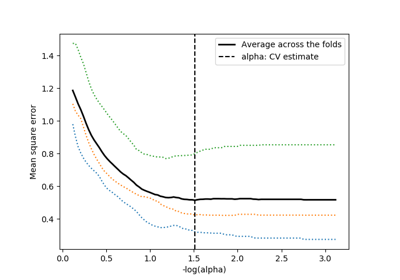
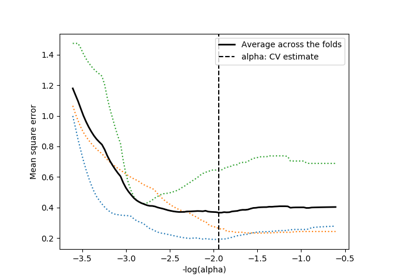
Generate Pelican site

diff --git a/searchindex.js b/searchindex.js
@@ -1,1 +1,1 @@
-Search.setIndex({docnames:["api","auto_examples/index","auto_examples/plot_finance_path","auto_examples/plot_lasso_cv","auto_examples/plot_leukemia_path","generated/celer.Lasso","generated/celer.LassoCV","generated/celer.celer","generated/celer.celer_path","index"],envversion:53,filenames:["api.rst","auto_examples/index.rst","auto_examples/plot_finance_path.rst","auto_examples/plot_lasso_cv.rst","auto_examples/plot_leukemia_path.rst","generated/celer.Lasso.rst","generated/celer.LassoCV.rst","generated/celer.celer.rst","generated/celer.celer_path.rst","index.rst"],objects:{"celer.Lasso":{__init__:[5,1,1,""]},"celer.LassoCV":{__init__:[6,1,1,""]},celer:{Lasso:[5,0,1,""],LassoCV:[6,0,1,""],celer:[7,2,1,""],celer_path:[8,2,1,""]}},objnames:{"0":["py","class","Python class"],"1":["py","method","Python method"],"2":["py","function","Python function"]},objtypes:{"0":"py:class","1":"py:method","2":"py:function"},terms:{"2_2":[5,6],"35th":9,"boolean":6,"break":8,"class":[5,6],"default":[5,6,7,8],"float":[3,4,5,6,7,8],"function":[0,5,6,7],"import":[2,3,4,5,9],"int":[5,6,7,8],"long":2,"return":[7,8],"true":[2,4,5,6,7,8],For:[5,6],The:[2,3,4,5,6,7,8],Then:9,Used:8,__doc__:[2,3,4],__init__:[5,6],_preprocess_data:8,abs:[2,4,9],acceler:7,across:3,activ:9,advis:5,alexandr:9,algorithm:[2,3,4,7,9],all:1,along:[6,8],alpha:[2,3,4,5,6,7,8],alpha_:[3,6],alpha_max:[2,4,6,8],alpha_min:[6,8],alphas_:[3,6],alreadi:6,amount:[5,6,8],anaconda:9,ani:9,arrai:[5,6,7,8],arxiv:9,asfortranarrai:[3,4],astyp:[3,4],attribut:[5,6],author:9,auto:6,auto_examples_jupyt:1,auto_examples_python:1,automat:[6,8],avail:9,averag:3,avoid:[7,8],axi:3,axvlin:3,base:[5,6,8],befor:[5,6],below:7,best:6,between:[5,7,8],booktitl:9,bool:[5,6,7,8],calcul:6,call:[5,7],can:9,celer:[2,3,4],celer_path:[2,4,5,6],center:[6,8],check:9,chosen:6,clf:5,click:[2,3,4],clone:9,coars:[2,4],code:[1,2,3,4,9],coef:[2,4,8],coef_:[5,6],coef_init:8,coeffici:[5,6,7,8],color:3,column:[7,8],com:9,compar:[2,4],compat:6,compil:9,comput:[1,5,6,7,8],conda:9,confer:9,constant:5,constraint:9,construct:2,contigu:[7,8],control:9,coordin:[5,6,7,8],cost:[5,6],creat:9,cross:[1,6],csc:[7,8],cython:9,data:[2,3,4,6,7,8],dataset:1,decis:[5,6],definit:[5,6,7,8],defualt:8,dens:4,dep:9,descent:[5,6,7,8],determin:6,directli:[7,8],displai:3,distribut:9,divid:[5,6],document:9,don:9,dot:[2,4],download:[1,2,3,4],download_preprocess_fin:2,dual:[5,6,7,8,9],dual_gap:[4,8],dual_gap_:6,dualiti:[5,6,7,8],duplic:[7,8],each:[5,6,7,8],elaps:7,elimin:9,els:[2,4],enabl:9,end:6,enter:7,enumer:[2,4],env:9,environ:9,epoch:[5,6,7,8],eps:[6,8],equival:5,eras:5,error:[3,6,9],estim:[0,3,5,6,7],everi:[6,7],everyth:9,exampl:[2,3,4,5],examples_util:2,exist:2,exit:7,expect:6,extrapol:[5,9],fals:[2,5,6,7,8],fast:[5,9],featur:[6,9],fetch_mldata:[3,4],fig:[2,4],figsiz:[2,4],figur:3,file:9,financ:1,finance_data_preprocess:2,finance_target_preprocess:2,fine:[2,4,9],first:[5,6,7,8,9],fit:[3,5,6],fit_intercept:[5,6],fold:[3,6],forc:[5,6,7,8],format:[7,8],formula:[5,6],fortran:[7,8],from:[2,3,4,5,9],full:[2,3,4],galleri:[2,3,4],gap:[2,4,5,6,7,8],gap_freq:[2,4,5,6,7,8],gener:[1,2,3,4,6],git:9,github:9,give:9,goe:7,gramfort:[5,9],grid:[2,4,6],grow:[5,6,7,8],here:[2,3,4],html:[5,9],http:[5,9],icml:[5,9],identif:9,ignor:[5,6],implement:[2,4],independ:6,initi:[5,7,8],initil:[],inner:[6,7,8],inproceed:9,input:6,integ:[5,6,8],intercept:[5,6],intercept_:[5,6],intern:9,ipynb:[2,3,4],iter:[5,6,7,8],joseph:9,jupyt:[1,2,3,4],just:[5,9],kept:6,kfold:6,label:[2,3,4],larg:2,lasso:[1,6,7,8,9],lasso_path:4,lassocv:[1,5],learn:[2,3,4,5,6,9],least:5,legend:3,len:[2,3,4],length:[6,8],leukemia:1,level:7,librari:9,like:[3,7,8],linear_model:[4,8],linestyl:3,linewidth:3,link:9,list:[6,8,9],load:[2,3,4],load_npz:2,log10:3,log1p:1,log:3,logspac:[2,4],loop:[6,7],m_log_alpha:3,machin:9,mai:2,make:2,massia:[5,9],massias18a:[5,9],mathurin:9,mathurinm:9,matplotlib:[2,3,4],matrix:[5,7,8],max:[2,4],max_epoch:[5,6,7,8],max_it:[2,4,5,6,7,8],maximum:[5,6,7,8],mean:[3,4,5,6,8],memori:[7,8],messag:9,method:[5,6],minim:7,minut:[2,3,4],mlr:[5,9],model:[3,6,8],monitor:8,more:2,mse_path_:[3,6],multipli:5,n_alpha:[2,4,6,8],n_featur:[5,6,7,8],n_fold:6,n_iter:7,n_iter_:[5,6],n_sampl:[2,3,4,5,6,7,8],ndarrai:[6,8],need:9,none:[2,4,6,7,8],norm:[5,6,8],normal:[5,6],notebook:[1,2,3,4],npy:2,npz:2,number:[5,6,7,8],numer:5,numpi:[2,3,4,6],object:[5,6,7],observ:7,onli:[7,8],optim:[5,6,7,8,9],option:[5,6,7,8],ordinari:5,org:9,otherwis:5,out:[2,3],outer:7,packag:9,page:9,paramet:[2,3,5,6,7,8],pass:[7,8],path:[1,6,8],penal:6,pip:9,pleas:9,plot:3,plot_finance_path:2,plot_lasso_cv:3,plot_leukemia_path:4,plot_path_hist:[2,4],plot_util:[2,4],plt:[2,3,4],pmlr:9,point:[7,9],posit:[5,6,7,8],possibl:6,potenti:7,precomput:6,preprocess:2,press:[5,9],previou:5,print:[2,3,4,5],prior:[],proceed:[5,9],prune:[2,4,5,6,7,8],pyplot:[2,3,4],python:[1,2,3,4,9],quick:9,reach:[5,6,7,8],reason:5,recommend:9,refer:5,regress:[5,6],regressor:[5,6],regular:[2,3,6,7,8],repositori:9,represent:5,res:[2,4],residu:9,result:[2,3,4],return_n_it:[7,8],return_theta:[2,4,8],reus:5,run:[1,2,4,5,6,8,9],salmon:[5,9],scale:8,scikit:[2,3,4,5,6],scipi:[2,5],script:[2,3,4],second:[2,3,4],see:8,select:6,set:[5,6,7,8],sever:2,shape:[2,5,6,7,8],shell:9,should:9,show:[2,3,4],sinc:7,singl:8,size:[5,7,8],sklearn:[3,4,6,8],smaller:[5,6,8],solut:[5,7],solv:[5,6,7],solver:[5,6,7,8,9],sourc:[1,2,3,4,9],spars:[2,5,7,8],sparse_coef_:5,sparsiti:8,specifi:[5,6],sphinx:[1,2,3,4],split:6,squar:[3,5,6],start:[2,4],std:4,stop:7,strategi:6,subproblem:[5,6,7,8],subtract:[5,6],take:2,target:[3,4,8],term:[5,6],test:6,than:[2,5,6,8],theta:[2,4,7,8],thi:[2,5,6,9],tight:[3,9],time:[2,3,4,7,8],titl:9,tol:[2,4,5,6,7,8],tol_ix:[2,4],toler:[5,6,7,8],too:2,total:[2,3,4],train:[6,7,8],unnecessari:[7,8],until:[5,6,8],use:[5,6,7,8,9],used:[6,8],uses:9,using:[3,5],v80:[5,9],valid:[1,6],valu:[7,8],vari:6,variabl:8,vector:[5,6,7],verbos:[2,4,5,6,7,8],verbose_inn:[2,4,7,8],volum:9,w_init:7,want:9,warm_start:5,warn:2,when:[5,6,7,8],where:[6,8],whether:[5,6,7,8],which:[2,4,9],wit:5,without:8,work:[5,6,7,8,9],x_fname:2,x_offset:8,x_scale:8,xlabel:3,y_fname:2,year:9,yield:6,ylabel:3,ylim:[2,4],yml:9,you:9,zero:[2,4,8],zip:1},titles:["API Documentation","Examples Gallery","Lasso path computation on Finance/log1p dataset","Run LassoCV for cross-validation on Leukemia dataset","Lasso path computation on Leukemia dataset","celer.Lasso","celer.LassoCV","celer.celer","celer.celer_path","Celer"],titleterms:{api:[0,9],celer:[0,5,6,7,8,9],celer_path:8,cite:9,comput:[2,4],cross:3,dataset:[2,3,4],document:0,exampl:1,financ:2,galleri:1,instal:9,lasso:[2,4,5],lassocv:[3,6],leukemia:[3,4],log1p:2,path:[2,4],run:3,valid:3}})
+Search.setIndex({docnames:["api","auto_examples/index","auto_examples/plot_finance_path","auto_examples/plot_lasso_cv","auto_examples/plot_leukemia_path","generated/celer.Lasso","generated/celer.LassoCV","generated/celer.celer","generated/celer.celer_path","index"],envversion:53,filenames:["api.rst","auto_examples/index.rst","auto_examples/plot_finance_path.rst","auto_examples/plot_lasso_cv.rst","auto_examples/plot_leukemia_path.rst","generated/celer.Lasso.rst","generated/celer.LassoCV.rst","generated/celer.celer.rst","generated/celer.celer_path.rst","index.rst"],objects:{"celer.Lasso":{__init__:[5,1,1,""]},"celer.LassoCV":{__init__:[6,1,1,""]},celer:{Lasso:[5,0,1,""],LassoCV:[6,0,1,""],celer:[7,2,1,""],celer_path:[8,2,1,""]}},objnames:{"0":["py","class","Python class"],"1":["py","method","Python method"],"2":["py","function","Python function"]},objtypes:{"0":"py:class","1":"py:method","2":"py:function"},terms:{"2_2":[5,6],"35th":9,"boolean":6,"break":8,"class":[5,6],"default":[5,6,7,8],"float":[3,4,5,6,7,8],"function":[0,5,6,7],"import":[2,3,4,5,9],"int":[5,6,7,8],"long":2,"return":[7,8],"true":[2,4,5,6,7,8],For:[5,6],The:[2,3,4,5,6,7,8],Then:9,Used:8,__doc__:[2,3,4],__init__:[5,6],_preprocess_data:8,abs:[2,4,9],acceler:7,across:3,activ:9,advis:5,alexandr:9,algorithm:[2,3,4,7,9],all:1,along:[6,8],alpha:[2,3,4,5,6,7,8],alpha_:[3,6],alpha_max:[2,4,6,8],alpha_min:[6,8],alphas_:[3,6],alreadi:6,aml:[3,4],amount:[5,6,8],anaconda:9,ani:9,arrai:[5,6,7,8],arxiv:9,asfortranarrai:[3,4],astyp:[3,4],attribut:[5,6],author:9,auto:6,auto_examples_jupyt:1,auto_examples_python:1,automat:[6,8],avail:9,averag:3,avoid:[7,8],axi:3,axvlin:3,base:[5,6,8],befor:[5,6],below:7,best:6,between:[5,7,8],booktitl:9,bool:[5,6,7,8],calcul:6,call:[5,7],can:9,celer:[2,3,4],celer_path:[2,4,5,6],center:[6,8],check:9,chosen:6,clf:5,click:[2,3,4],clone:9,coars:[2,4],code:[1,2,3,4,9],coef:[2,4,8],coef_:[5,6],coef_init:8,coeffici:[5,6,7,8],color:3,column:[7,8],com:9,compar:[2,4],compat:6,compil:9,comput:[1,5,6,7,8],conda:9,confer:9,constant:5,constraint:9,construct:2,contigu:[7,8],control:9,coordin:[5,6,7,8],cost:[5,6],creat:9,cross:[1,6],csc:[7,8],cython:9,data:[2,3,4,6,7,8],dataset:1,decis:[5,6],definit:[5,6,7,8],defualt:8,dens:4,dep:9,descent:[5,6,7,8],determin:6,directli:[7,8],displai:3,distribut:9,divid:[5,6],document:9,don:9,dot:[2,4],download:[1,2,3,4],download_preprocess_fin:2,dual:[5,6,7,8,9],dual_gap:[4,8],dual_gap_:6,dualiti:[5,6,7,8],duplic:[7,8],each:[5,6,7,8],elaps:7,elimin:9,els:[2,4],enabl:9,end:6,enter:7,enumer:[2,4],env:9,environ:9,epoch:[5,6,7,8],eps:[6,8],equival:5,eras:5,error:[3,6,9],estim:[0,3,5,6,7],everi:[6,7],everyth:9,exampl:[2,3,4,5],examples_util:2,exist:2,exit:7,expect:6,extrapol:[5,9],fals:[2,5,6,7,8],fast:[5,9],featur:[6,9],fetch_openml:[3,4],fig:[2,4],figsiz:[2,4],figur:3,file:9,financ:1,finance_data_preprocess:2,finance_target_preprocess:2,fine:[2,4,9],first:[5,6,7,8,9],fit:[3,5,6],fit_intercept:[5,6],fold:[3,6],forc:[5,6,7,8],format:[7,8],formula:[5,6],fortran:[7,8],from:[2,3,4,5,9],full:[2,3,4],galleri:[2,3,4],gap:[2,4,5,6,7,8],gap_freq:[2,4,5,6,7,8],gener:[1,2,3,4,6],git:9,github:9,give:9,goe:7,gramfort:[5,9],grid:[2,4,6],grow:[5,6,7,8],here:[2,3,4],html:[5,9],http:[5,9],icml:[5,9],identif:9,ignor:[5,6],implement:[2,4],independ:6,initi:[5,7,8],inner:[6,7,8],inproceed:9,input:6,integ:[5,6,8],intercept:[5,6],intercept_:[5,6],intern:9,ipynb:[2,3,4],iter:[5,6,7,8],joseph:9,jupyt:[1,2,3,4],just:[5,9],kept:6,kfold:6,label:[2,3,4],larg:2,lasso:[1,6,7,8,9],lasso_path:4,lassocv:[1,5],learn:[2,3,4,5,6,9],least:5,legend:3,len:[2,3,4],length:[6,8],leukemia:1,level:7,librari:9,like:[3,7,8],linear_model:[4,8],linestyl:3,linewidth:3,link:9,list:[6,8,9],load:[2,3,4],load_npz:2,log10:3,log1p:1,log:3,logspac:[2,4],loop:[6,7],m_log_alpha:3,machin:9,mai:2,make:2,massia:[5,9],massias18a:[5,9],mathurin:9,mathurinm:9,matplotlib:[2,3,4],matrix:[5,7,8],max:[2,4],max_epoch:[5,6,7,8],max_it:[2,4,5,6,7,8],maximum:[5,6,7,8],mean:[3,4,5,6,8],memori:[7,8],messag:9,method:[5,6],minim:7,minut:[2,3,4],mlr:[5,9],model:[3,6,8],monitor:8,more:2,mse_path_:[3,6],multipli:5,n_alpha:[2,4,6,8],n_featur:[5,6,7,8],n_fold:6,n_iter:7,n_iter_:[5,6],n_sampl:[2,3,4,5,6,7,8],ndarrai:[6,8],need:9,none:[2,4,6,7,8],norm:[5,6,8],normal:[5,6],notebook:[1,2,3,4],npy:2,npz:2,number:[5,6,7,8],numer:5,numpi:[2,3,4,6],object:[5,6,7],observ:7,onli:[7,8],optim:[5,6,7,8,9],option:[5,6,7,8],ordinari:5,org:9,otherwis:5,out:[2,3],outer:7,packag:9,page:9,paramet:[2,3,5,6,7,8],pass:[7,8],path:[1,6,8],penal:6,pip:9,pleas:9,plot:3,plot_finance_path:2,plot_lasso_cv:3,plot_leukemia_path:4,plot_path_hist:[2,4],plot_util:[2,4],plt:[2,3,4],pmlr:9,point:[7,9],posit:[5,6,7,8],possibl:6,potenti:7,precomput:6,preprocess:2,press:[5,9],previou:5,print:[2,3,4,5],proceed:[5,9],prune:[2,4,5,6,7,8],pyplot:[2,3,4],python:[1,2,3,4,9],quick:9,reach:[5,6,7,8],reason:5,recommend:9,refer:5,regress:[5,6],regressor:[5,6],regular:[2,3,6,7,8],repositori:9,represent:5,res:[2,4],residu:9,result:[2,3,4],return_n_it:[7,8],return_theta:[2,4,8],reus:5,run:[1,2,4,5,6,8,9],salmon:[5,9],scale:8,scikit:[2,3,4,5,6],scipi:[2,5],script:[2,3,4],second:[2,3,4],see:8,select:6,set:[5,6,7,8],sever:2,shape:[2,5,6,7,8],shell:9,should:9,show:[2,3,4],sinc:7,singl:8,size:[5,7,8],sklearn:[3,4,6,8],smaller:[5,6,8],solut:[5,7],solv:[5,6,7],solver:[5,6,7,8,9],sourc:[1,2,3,4,9],spars:[2,5,7,8],sparse_coef_:5,sparsiti:8,specifi:[5,6],sphinx:[1,2,3,4],split:6,squar:[3,5,6],start:[2,4],std:4,stop:7,strategi:6,subproblem:[5,6,7,8],subtract:[5,6],take:2,target:[3,4,8],term:[5,6],test:6,than:[2,5,6,8],theta:[2,4,7,8],thi:[2,5,6,9],tight:[3,9],time:[2,3,4,7,8],titl:9,tol:[2,4,5,6,7,8],tol_ix:[2,4],toler:[5,6,7,8],too:2,total:[2,3,4],train:[6,7,8],unnecessari:[7,8],until:[5,6,8],use:[5,6,7,8,9],used:[6,8],uses:9,using:[3,5],v80:[5,9],valid:[1,6],valu:[7,8],vari:6,variabl:8,vector:[5,6,7],verbos:[2,4,5,6,7,8],verbose_inn:[2,4,7,8],volum:9,w_init:7,want:9,warm_start:5,warn:2,when:[5,6,7,8],where:[6,8],whether:[5,6,7,8],which:[2,4,9],wit:5,without:8,work:[5,6,7,8,9],x_fname:2,x_offset:8,x_scale:8,xlabel:3,y_fname:2,year:9,yield:6,ylabel:3,ylim:[2,4],yml:9,you:9,zero:[2,4,8],zip:1},titles:["API Documentation","Examples Gallery","Lasso path computation on Finance/log1p dataset","Run LassoCV for cross-validation on Leukemia dataset","Lasso path computation on Leukemia dataset","celer.Lasso","celer.LassoCV","celer.celer","celer.celer_path","Celer"],titleterms:{api:[0,9],celer:[0,5,6,7,8,9],celer_path:8,cite:9,comput:[2,4],cross:3,dataset:[2,3,4],document:0,exampl:1,financ:2,galleri:1,instal:9,lasso:[2,4,5],lassocv:[3,6],leukemia:[3,4],log1p:2,path:[2,4],run:3,valid:3}})

diff --git a/auto_examples/plot_leukemia_path.html b/auto_examples/plot_leukemia_path.html
@@ -4,14 +4,14 @@
 <html xmlns="http://www.w3.org/1999/xhtml">
   <head>
     <meta http-equiv="Content-Type" content="text/html; charset=utf-8" />
-    <title>Lasso path computation on Leukemia dataset &#8212; celer 0.3 documentation</title>
+    <title>Lasso path computation on Leukemia dataset &#8212; celer 0.3.1 documentation</title>
     <link rel="stylesheet" href="../_static/bootstrap-sphinx.css" type="text/css" />
     <link rel="stylesheet" href="../_static/pygments.css" type="text/css" />
     <link rel="stylesheet" href="../_static/gallery.css" type="text/css" />
     <script type="text/javascript">
       var DOCUMENTATION_OPTIONS = {
         URL_ROOT:    '../',
-        VERSION:     '0.3',
+        VERSION:     '0.3.1',
         COLLAPSE_INDEX: false,
         FILE_SUFFIX: '.html',
         HAS_SOURCE:  true,
@@ -47,7 +47,7 @@
         </button>
         <a class="navbar-brand" href="../index.html">
           celer</a>
-        <span class="navbar-text navbar-version pull-left"><b>0.3</b></span>
+        <span class="navbar-text navbar-version pull-left"><b>0.3.1</b></span>
       </div>
 
         <div class="collapse navbar-collapse nav-collapse">
@@ -122,15 +122,15 @@
 <div class="sphx-glr-example-title section" id="lasso-path-computation-on-leukemia-dataset">
 <span id="sphx-glr-auto-examples-plot-leukemia-path-py"></span><h1>Lasso path computation on Leukemia dataset<a class="headerlink" href="#lasso-path-computation-on-leukemia-dataset" title="Permalink to this headline">¶</a></h1>
 <p>The example runs the Celer algorithm on the Leukemia
-dataset which is dense dataset.</p>
+dataset which is a dense dataset.</p>
 <p>Running time is compared with the scikit-learn implementation.</p>
 <div class="highlight-python"><div class="highlight"><pre><span></span><span class="kn">import</span> <span class="nn">time</span>
 
 <span class="kn">import</span> <span class="nn">numpy</span> <span class="kn">as</span> <span class="nn">np</span>
 <span class="kn">import</span> <span class="nn">matplotlib.pyplot</span> <span class="kn">as</span> <span class="nn">plt</span>
 
-<span class="kn">from</span> <span class="nn">sklearn.linear_model</span> <span class="kn">import</span> <span class="n">lasso_path</span>
-<span class="kn">from</span> <span class="nn">sklearn.datasets</span> <span class="kn">import</span> <a href="https://scikit-learn.org/stable/modules/generated/sklearn.datasets.fetch_mldata.html#sklearn.datasets.fetch_mldata" title="View documentation for sklearn.datasets.fetch_mldata"><span class="n">fetch_mldata</span></a>
+<span class="kn">from</span> <span class="nn">sklearn.linear_model</span> <span class="kn">import</span> <a href="https://scikit-learn.org/stable/modules/generated/sklearn.linear_model.lasso_path.html#sklearn.linear_model.lasso_path" title="View documentation for sklearn.linear_model.lasso_path"><span class="n">lasso_path</span></a>
+<span class="kn">from</span> <span class="nn">sklearn.datasets</span> <span class="kn">import</span> <a href="https://scikit-learn.org/stable/modules/generated/sklearn.datasets.fetch_openml.html#sklearn.datasets.fetch_openml" title="View documentation for sklearn.datasets.fetch_openml"><span class="n">fetch_openml</span></a>
 
 <span class="kn">from</span> <span class="nn">celer</span> <span class="kn">import</span> <a href="../generated/celer.celer_path.html#celer.celer_path" title="View documentation for celer.celer_path"><span class="n">celer_path</span></a>
 <span class="kn">from</span> <span class="nn">celer.plot_utils</span> <span class="kn">import</span> <span class="n">plot_path_hist</span>
@@ -138,9 +138,9 @@ dataset which is dense dataset.</p>
 <span class="k">print</span><span class="p">(</span><span class="vm">__doc__</span><span class="p">)</span>
 
 <span class="k">print</span><span class="p">(</span><span class="s2">&quot;Loading data...&quot;</span><span class="p">)</span>
-<span class="n">dataset</span> <span class="o">=</span> <a href="https://scikit-learn.org/stable/modules/generated/sklearn.datasets.fetch_mldata.html#sklearn.datasets.fetch_mldata" title="View documentation for sklearn.datasets.fetch_mldata"><span class="n">fetch_mldata</span></a><span class="p">(</span><span class="s2">&quot;leukemia&quot;</span><span class="p">)</span>
+<span class="n">dataset</span> <span class="o">=</span> <a href="https://scikit-learn.org/stable/modules/generated/sklearn.datasets.fetch_openml.html#sklearn.datasets.fetch_openml" title="View documentation for sklearn.datasets.fetch_openml"><span class="n">fetch_openml</span></a><span class="p">(</span><span class="s2">&quot;leukemia&quot;</span><span class="p">)</span>
 <span class="n">X</span> <span class="o">=</span> <a href="https://docs.scipy.org/doc/numpy/reference/generated/numpy.asfortranarray.html#numpy.asfortranarray" title="View documentation for numpy.asfortranarray"><span class="n">np</span><span class="o">.</span><span class="n">asfortranarray</span></a><span class="p">(</span><span class="n">dataset</span><span class="o">.</span><span class="n">data</span><span class="o">.</span><span class="n">astype</span><span class="p">(</span><span class="nb">float</span><span class="p">))</span>
-<span class="n">y</span> <span class="o">=</span> <span class="n">dataset</span><span class="o">.</span><span class="n">target</span><span class="o">.</span><span class="n">astype</span><span class="p">(</span><span class="nb">float</span><span class="p">)</span>
+<span class="n">y</span> <span class="o">=</span> <span class="mi">2</span> <span class="o">*</span> <span class="p">((</span><span class="n">dataset</span><span class="o">.</span><span class="n">target</span> <span class="o">!=</span> <span class="s2">&quot;AML&quot;</span><span class="p">)</span> <span class="o">-</span> <span class="mf">0.5</span><span class="p">)</span>
 <span class="n">n_samples</span> <span class="o">=</span> <span class="nb">len</span><span class="p">(</span><span class="n">y</span><span class="p">)</span>
 
 <span class="n">y</span> <span class="o">-=</span> <a href="https://docs.scipy.org/doc/numpy/reference/generated/numpy.mean.html#numpy.mean" title="View documentation for numpy.mean"><span class="n">np</span><span class="o">.</span><span class="n">mean</span></a><span class="p">(</span><span class="n">y</span><span class="p">)</span>
@@ -169,12 +169,12 @@ dataset which is dense dataset.</p>
     <span class="n">_</span><span class="p">,</span> <span class="n">coefs</span><span class="p">,</span> <span class="n">gaps</span><span class="p">,</span> <span class="n">thetas</span> <span class="o">=</span> <span class="n">res</span>
 
     <span class="n">t0</span> <span class="o">=</span> <span class="n">time</span><span class="o">.</span><span class="n">time</span><span class="p">()</span>
-    <span class="c1"># _, coefs, dual_gaps = lasso_path(X, y, tol=tol, alphas=alphas)</span>
+    <span class="n">_</span><span class="p">,</span> <span class="n">coefs</span><span class="p">,</span> <span class="n">dual_gaps</span> <span class="o">=</span> <a href="https://scikit-learn.org/stable/modules/generated/sklearn.linear_model.lasso_path.html#sklearn.linear_model.lasso_path" title="View documentation for sklearn.linear_model.lasso_path"><span class="n">lasso_path</span></a><span class="p">(</span><span class="n">X</span><span class="p">,</span> <span class="n">y</span><span class="p">,</span> <span class="n">tol</span><span class="o">=</span><span class="n">tol</span><span class="p">,</span> <span class="n">alphas</span><span class="o">=</span><span class="n">alphas</span><span class="p">)</span>
     <span class="n">results</span><span class="p">[</span><span class="mi">1</span><span class="p">,</span> <span class="n">tol_ix</span><span class="p">]</span> <span class="o">=</span> <span class="n">time</span><span class="o">.</span><span class="n">time</span><span class="p">()</span> <span class="o">-</span> <span class="n">t0</span>
     <span class="n">coefs</span> <span class="o">=</span> <span class="n">coefs</span><span class="o">.</span><span class="n">T</span>
 
 <span class="n">labels</span> <span class="o">=</span> <span class="p">[</span><span class="sa">r</span><span class="s2">&quot;\sc{Celer}&quot;</span><span class="p">,</span> <span class="s2">&quot;scikit-learn&quot;</span><span class="p">]</span>
-<span class="n">figsize</span> <span class="o">=</span> <span class="p">(</span><span class="mi">7</span><span class="p">,</span> <span class="mi">4</span><span class="p">)</span>
+<span class="n">figsize</span> <span class="o">=</span> <span class="p">(</span><span class="mf">7.1</span><span class="p">,</span> <span class="mf">4.3</span><span class="p">)</span>
 <span class="n">fig</span> <span class="o">=</span> <span class="n">plot_path_hist</span><span class="p">(</span><span class="n">results</span><span class="p">,</span> <span class="n">labels</span><span class="p">,</span> <span class="n">tols</span><span class="p">,</span> <span class="n">figsize</span><span class="p">,</span> <span class="n">ylim</span><span class="o">=</span><span class="bp">None</span><span class="p">)</span>
 <a href="https://matplotlib.org/api/_as_gen/matplotlib.pyplot.show.html#matplotlib.pyplot.show" title="View documentation for matplotlib.pyplot.show"><span class="n">plt</span><span class="o">.</span><span class="n">show</span></a><span class="p">()</span>
 </pre></div>

diff --git a/auto_examples/plot_lasso_cv.html b/auto_examples/plot_lasso_cv.html
@@ -4,14 +4,14 @@
 <html xmlns="http://www.w3.org/1999/xhtml">
   <head>
     <meta http-equiv="Content-Type" content="text/html; charset=utf-8" />
-    <title>Run LassoCV for cross-validation on Leukemia dataset &#8212; celer 0.3 documentation</title>
+    <title>Run LassoCV for cross-validation on Leukemia dataset &#8212; celer 0.3.1 documentation</title>
     <link rel="stylesheet" href="../_static/bootstrap-sphinx.css" type="text/css" />
     <link rel="stylesheet" href="../_static/pygments.css" type="text/css" />
     <link rel="stylesheet" href="../_static/gallery.css" type="text/css" />
     <script type="text/javascript">
       var DOCUMENTATION_OPTIONS = {
         URL_ROOT:    '../',
-        VERSION:     '0.3',
+        VERSION:     '0.3.1',
         COLLAPSE_INDEX: false,
         FILE_SUFFIX: '.html',
         HAS_SOURCE:  true,
@@ -47,7 +47,7 @@
         </button>
         <a class="navbar-brand" href="../index.html">
           celer</a>
-        <span class="navbar-text navbar-version pull-left"><b>0.3</b></span>
+        <span class="navbar-text navbar-version pull-left"><b>0.3.1</b></span>
       </div>
 
         <div class="collapse navbar-collapse nav-collapse">
@@ -126,7 +126,7 @@ using the Celer algorithm.</p>
 <img alt="../_images/sphx_glr_plot_lasso_cv_001.png" class="sphx-glr-single-img" src="../_images/sphx_glr_plot_lasso_cv_001.png" />
 <p class="sphx-glr-script-out">Out:</p>
 <div class="sphx-glr-script-out highlight-none"><div class="highlight"><pre><span></span>Loading data...
-Estimated regularization parameter alpha: 0.03074801289382602
+Estimated regularization parameter alpha: 87.26245965609873
 </pre></div>
 </div>
 <div class="line-block">
@@ -135,19 +135,19 @@ Estimated regularization parameter alpha: 0.03074801289382602
 <div class="highlight-python"><div class="highlight"><pre><span></span><span class="kn">import</span> <span class="nn">numpy</span> <span class="kn">as</span> <span class="nn">np</span>
 <span class="kn">import</span> <span class="nn">matplotlib.pyplot</span> <span class="kn">as</span> <span class="nn">plt</span>
 
-<span class="kn">from</span> <span class="nn">sklearn.datasets</span> <span class="kn">import</span> <a href="https://scikit-learn.org/stable/modules/generated/sklearn.datasets.fetch_mldata.html#sklearn.datasets.fetch_mldata" title="View documentation for sklearn.datasets.fetch_mldata"><span class="n">fetch_mldata</span></a>
+<span class="kn">from</span> <span class="nn">sklearn.datasets</span> <span class="kn">import</span> <a href="https://scikit-learn.org/stable/modules/generated/sklearn.datasets.fetch_openml.html#sklearn.datasets.fetch_openml" title="View documentation for sklearn.datasets.fetch_openml"><span class="n">fetch_openml</span></a>
 
 <span class="kn">from</span> <span class="nn">celer</span> <span class="kn">import</span> <a href="../generated/celer.LassoCV.html#celer.LassoCV" title="View documentation for celer.LassoCV"><span class="n">LassoCV</span></a>
 
 <span class="k">print</span><span class="p">(</span><span class="vm">__doc__</span><span class="p">)</span>
 
 <span class="k">print</span><span class="p">(</span><span class="s2">&quot;Loading data...&quot;</span><span class="p">)</span>
-<span class="n">dataset</span> <span class="o">=</span> <a href="https://scikit-learn.org/stable/modules/generated/sklearn.datasets.fetch_mldata.html#sklearn.datasets.fetch_mldata" title="View documentation for sklearn.datasets.fetch_mldata"><span class="n">fetch_mldata</span></a><span class="p">(</span><span class="s2">&quot;leukemia&quot;</span><span class="p">)</span>
+<span class="n">dataset</span> <span class="o">=</span> <a href="https://scikit-learn.org/stable/modules/generated/sklearn.datasets.fetch_openml.html#sklearn.datasets.fetch_openml" title="View documentation for sklearn.datasets.fetch_openml"><span class="n">fetch_openml</span></a><span class="p">(</span><span class="s2">&quot;leukemia&quot;</span><span class="p">)</span>
 <span class="n">X</span> <span class="o">=</span> <a href="https://docs.scipy.org/doc/numpy/reference/generated/numpy.asfortranarray.html#numpy.asfortranarray" title="View documentation for numpy.asfortranarray"><span class="n">np</span><span class="o">.</span><span class="n">asfortranarray</span></a><span class="p">(</span><span class="n">dataset</span><span class="o">.</span><span class="n">data</span><span class="o">.</span><span class="n">astype</span><span class="p">(</span><span class="nb">float</span><span class="p">))</span>
-<span class="n">y</span> <span class="o">=</span> <span class="n">dataset</span><span class="o">.</span><span class="n">target</span><span class="o">.</span><span class="n">astype</span><span class="p">(</span><span class="nb">float</span><span class="p">)</span>
+<span class="n">y</span> <span class="o">=</span> <span class="mi">2</span> <span class="o">*</span> <span class="p">((</span><span class="n">dataset</span><span class="o">.</span><span class="n">target</span> <span class="o">==</span> <span class="s2">&quot;AML&quot;</span><span class="p">)</span> <span class="o">-</span> <span class="mf">0.5</span><span class="p">)</span>
 <span class="n">n_samples</span> <span class="o">=</span> <span class="nb">len</span><span class="p">(</span><span class="n">y</span><span class="p">)</span>
 
-<span class="n">model</span> <span class="o">=</span> <a href="../generated/celer.LassoCV.html#celer.LassoCV" title="View documentation for celer.LassoCV"><span class="n">LassoCV</span></a><span class="p">()</span>
+<span class="n">model</span> <span class="o">=</span> <a href="../generated/celer.LassoCV.html#celer.LassoCV" title="View documentation for celer.LassoCV"><span class="n">LassoCV</span></a><span class="p">(</span><span class="n">cv</span><span class="o">=</span><span class="mi">3</span><span class="p">)</span>
 <span class="n">model</span><span class="o">.</span><span class="n">fit</span><span class="p">(</span><span class="n">X</span><span class="p">,</span> <span class="n">y</span><span class="p">)</span>
 
 <span class="k">print</span><span class="p">(</span><span class="s2">&quot;Estimated regularization parameter alpha: </span><span class="si">%s</span><span class="s2">&quot;</span> <span class="o">%</span> <span class="n">model</span><span class="o">.</span><span class="n">alpha_</span><span class="p">)</span>
@@ -170,7 +170,7 @@ Estimated regularization parameter alpha: 0.03074801289382602
 <a href="https://matplotlib.org/api/_as_gen/matplotlib.pyplot.show.html#matplotlib.pyplot.show" title="View documentation for matplotlib.pyplot.show"><span class="n">plt</span><span class="o">.</span><span class="n">show</span></a><span class="p">()</span>
 </pre></div>
 </div>
-<p><strong>Total running time of the script:</strong> ( 0 minutes  0.487 seconds)</p>
+<p><strong>Total running time of the script:</strong> ( 0 minutes  0.807 seconds)</p>
 <div class="sphx-glr-footer class sphx-glr-footer-example docutils container" id="sphx-glr-download-auto-examples-plot-lasso-cv-py">
 <div class="sphx-glr-download docutils container">
 <a class="reference download internal" href="../_downloads/plot_lasso_cv.py" download=""><code class="xref download docutils literal"><span class="pre">Download</span> <span class="pre">Python</span> <span class="pre">source</span> <span class="pre">code:</span> <span class="pre">plot_lasso_cv.py</span></code></a></div>

diff --git a/auto_examples/plot_finance_path.html b/auto_examples/plot_finance_path.html
@@ -4,14 +4,14 @@
 <html xmlns="http://www.w3.org/1999/xhtml">
   <head>
     <meta http-equiv="Content-Type" content="text/html; charset=utf-8" />
-    <title>Lasso path computation on Finance/log1p dataset &#8212; celer 0.3 documentation</title>
+    <title>Lasso path computation on Finance/log1p dataset &#8212; celer 0.3.1 documentation</title>
     <link rel="stylesheet" href="../_static/bootstrap-sphinx.css" type="text/css" />
     <link rel="stylesheet" href="../_static/pygments.css" type="text/css" />
     <link rel="stylesheet" href="../_static/gallery.css" type="text/css" />
     <script type="text/javascript">
       var DOCUMENTATION_OPTIONS = {
         URL_ROOT:    '../',
-        VERSION:     '0.3',
+        VERSION:     '0.3.1',
         COLLAPSE_INDEX: false,
         FILE_SUFFIX: '.html',
         HAS_SOURCE:  true,
@@ -47,7 +47,7 @@
         </button>
         <a class="navbar-brand" href="../index.html">
           celer</a>
-        <span class="navbar-text navbar-version pull-left"><b>0.3</b></span>
+        <span class="navbar-text navbar-version pull-left"><b>0.3.1</b></span>
       </div>
 
         <div class="collapse navbar-collapse nav-collapse">
@@ -193,7 +193,7 @@ Starting path computation...
 <a href="https://matplotlib.org/api/_as_gen/matplotlib.pyplot.show.html#matplotlib.pyplot.show" title="View documentation for matplotlib.pyplot.show"><span class="n">plt</span><span class="o">.</span><span class="n">show</span></a><span class="p">()</span>
 </pre></div>
 </div>
-<p><strong>Total running time of the script:</strong> ( 5 minutes  29.114 seconds)</p>
+<p><strong>Total running time of the script:</strong> ( 8 minutes  3.240 seconds)</p>
 <div class="sphx-glr-footer class sphx-glr-footer-example docutils container" id="sphx-glr-download-auto-examples-plot-finance-path-py">
 <div class="sphx-glr-download docutils container">
 <a class="reference download internal" href="../_downloads/plot_finance_path.py" download=""><code class="xref download docutils literal"><span class="pre">Download</span> <span class="pre">Python</span> <span class="pre">source</span> <span class="pre">code:</span> <span class="pre">plot_finance_path.py</span></code></a></div>

diff --git a/auto_examples/index.html b/auto_examples/index.html
@@ -4,14 +4,14 @@
 <html xmlns="http://www.w3.org/1999/xhtml">
   <head>
     <meta http-equiv="Content-Type" content="text/html; charset=utf-8" />
-    <title>Examples Gallery &#8212; celer 0.3 documentation</title>
+    <title>Examples Gallery &#8212; celer 0.3.1 documentation</title>
     <link rel="stylesheet" href="../_static/bootstrap-sphinx.css" type="text/css" />
     <link rel="stylesheet" href="../_static/pygments.css" type="text/css" />
     <link rel="stylesheet" href="../_static/gallery.css" type="text/css" />
     <script type="text/javascript">
       var DOCUMENTATION_OPTIONS = {
         URL_ROOT:    '../',
-        VERSION:     '0.3',
+        VERSION:     '0.3.1',
         COLLAPSE_INDEX: false,
         FILE_SUFFIX: '.html',
         HAS_SOURCE:  true,
@@ -47,7 +47,7 @@
         </button>
         <a class="navbar-brand" href="../index.html">
           celer</a>
-        <span class="navbar-text navbar-version pull-left"><b>0.3</b></span>
+        <span class="navbar-text navbar-version pull-left"><b>0.3.1</b></span>
       </div>
 
         <div class="collapse navbar-collapse nav-collapse">
@@ -125,7 +125,7 @@
 </div>
 </div><div class="toctree-wrapper compound">
 </div>
-<div class="sphx-glr-thumbcontainer" tooltip="The example runs the Celer algorithm on the Leukemia dataset which is dense dataset."><div class="figure" id="id2">
+<div class="sphx-glr-thumbcontainer" tooltip="The example runs the Celer algorithm on the Leukemia dataset which is a dense dataset."><div class="figure" id="id2">
 <img alt="../_images/sphx_glr_plot_leukemia_path_thumb.png" src="../_images/sphx_glr_plot_leukemia_path_thumb.png" />
 <p class="caption"><span class="caption-text"><a class="reference internal" href="plot_leukemia_path.html#sphx-glr-auto-examples-plot-leukemia-path-py"><span class="std std-ref">Lasso path computation on Leukemia dataset</span></a></span></p>
 </div>

diff --git a/api.html b/api.html
@@ -4,14 +4,14 @@
 <html xmlns="http://www.w3.org/1999/xhtml">
   <head>
     <meta http-equiv="Content-Type" content="text/html; charset=utf-8" />
-    <title>API Documentation &#8212; celer 0.3 documentation</title>
+    <title>API Documentation &#8212; celer 0.3.1 documentation</title>
     <link rel="stylesheet" href="_static/bootstrap-sphinx.css" type="text/css" />
     <link rel="stylesheet" href="_static/pygments.css" type="text/css" />
     <link rel="stylesheet" href="_static/gallery.css" type="text/css" />
     <script type="text/javascript">
       var DOCUMENTATION_OPTIONS = {
         URL_ROOT:    './',
-        VERSION:     '0.3',
+        VERSION:     '0.3.1',
         COLLAPSE_INDEX: false,
         FILE_SUFFIX: '.html',
         HAS_SOURCE:  true,
@@ -49,7 +49,7 @@
         </button>
         <a class="navbar-brand" href="index.html">
           celer</a>
-        <span class="navbar-text navbar-version pull-left"><b>0.3</b></span>
+        <span class="navbar-text navbar-version pull-left"><b>0.3.1</b></span>
       </div>
 
         <div class="collapse navbar-collapse nav-collapse">

diff --git a/search.html b/search.html
@@ -4,14 +4,14 @@
 <html xmlns="http://www.w3.org/1999/xhtml">
   <head>
     <meta http-equiv="Content-Type" content="text/html; charset=utf-8" />
-    <title>Search &#8212; celer 0.3 documentation</title>
+    <title>Search &#8212; celer 0.3.1 documentation</title>
     <link rel="stylesheet" href="_static/bootstrap-sphinx.css" type="text/css" />
     <link rel="stylesheet" href="_static/pygments.css" type="text/css" />
     <link rel="stylesheet" href="_static/gallery.css" type="text/css" />
     <script type="text/javascript">
       var DOCUMENTATION_OPTIONS = {
         URL_ROOT:    './',
-        VERSION:     '0.3',
+        VERSION:     '0.3.1',
         COLLAPSE_INDEX: false,
         FILE_SUFFIX: '.html',
         HAS_SOURCE:  true,
@@ -55,7 +55,7 @@
         </button>
         <a class="navbar-brand" href="index.html">
           celer</a>
-        <span class="navbar-text navbar-version pull-left"><b>0.3</b></span>
+        <span class="navbar-text navbar-version pull-left"><b>0.3.1</b></span>
       </div>
 
         <div class="collapse navbar-collapse nav-collapse">

diff --git a/genindex.html b/genindex.html
@@ -5,14 +5,14 @@
 <html xmlns="http://www.w3.org/1999/xhtml">
   <head>
     <meta http-equiv="Content-Type" content="text/html; charset=utf-8" />
-    <title>Index &#8212; celer 0.3 documentation</title>
+    <title>Index &#8212; celer 0.3.1 documentation</title>
     <link rel="stylesheet" href="_static/bootstrap-sphinx.css" type="text/css" />
     <link rel="stylesheet" href="_static/pygments.css" type="text/css" />
     <link rel="stylesheet" href="_static/gallery.css" type="text/css" />
     <script type="text/javascript">
       var DOCUMENTATION_OPTIONS = {
         URL_ROOT:    './',
-        VERSION:     '0.3',
+        VERSION:     '0.3.1',
         COLLAPSE_INDEX: false,
         FILE_SUFFIX: '.html',
         HAS_SOURCE:  true,
@@ -48,7 +48,7 @@
         </button>
         <a class="navbar-brand" href="index.html">
           celer</a>
-        <span class="navbar-text navbar-version pull-left"><b>0.3</b></span>
+        <span class="navbar-text navbar-version pull-left"><b>0.3.1</b></span>
       </div>
 
         <div class="collapse navbar-collapse nav-collapse">

diff --git a/index.html b/index.html
@@ -4,14 +4,14 @@
 <html xmlns="http://www.w3.org/1999/xhtml">
   <head>
     <meta http-equiv="Content-Type" content="text/html; charset=utf-8" />
-    <title>Celer &#8212; celer 0.3 documentation</title>
+    <title>Celer &#8212; celer 0.3.1 documentation</title>
     <link rel="stylesheet" href="_static/bootstrap-sphinx.css" type="text/css" />
     <link rel="stylesheet" href="_static/pygments.css" type="text/css" />
     <link rel="stylesheet" href="_static/gallery.css" type="text/css" />
     <script type="text/javascript">
       var DOCUMENTATION_OPTIONS = {
         URL_ROOT:    './',
-        VERSION:     '0.3',
+        VERSION:     '0.3.1',
         COLLAPSE_INDEX: false,
         FILE_SUFFIX: '.html',
         HAS_SOURCE:  true,
@@ -48,7 +48,7 @@
         </button>
         <a class="navbar-brand" href="#">
           celer</a>
-        <span class="navbar-text navbar-version pull-left"><b>0.3</b></span>
+        <span class="navbar-text navbar-version pull-left"><b>0.3.1</b></span>
       </div>
 
         <div class="collapse navbar-collapse nav-collapse">

diff --git a/_downloads/plot_leukemia_path.py b/_downloads/plot_leukemia_path.py
@@ -4,7 +4,7 @@ Lasso path computation on Leukemia dataset
 =======================================================
 
 The example runs the Celer algorithm on the Leukemia
-dataset which is dense dataset.
+dataset which is a dense dataset.
 
 Running time is compared with the scikit-learn implementation.
 """
@@ -15,7 +15,7 @@ import numpy as np
 import matplotlib.pyplot as plt
 
 from sklearn.linear_model import lasso_path
-from sklearn.datasets import fetch_mldata
+from sklearn.datasets import fetch_openml
 
 from celer import celer_path
 from celer.plot_utils import plot_path_hist
@@ -23,9 +23,9 @@ from celer.plot_utils import plot_path_hist
 print(__doc__)
 
 print("Loading data...")
-dataset = fetch_mldata("leukemia")
+dataset = fetch_openml("leukemia")
 X = np.asfortranarray(dataset.data.astype(float))
-y = dataset.target.astype(float)
+y = 2 * ((dataset.target != "AML") - 0.5)
 n_samples = len(y)
 
 y -= np.mean(y)
@@ -54,11 +54,11 @@ for tol_ix, tol in enumerate(tols):
     _, coefs, gaps, thetas = res
 
     t0 = time.time()
-    # _, coefs, dual_gaps = lasso_path(X, y, tol=tol, alphas=alphas)
+    _, coefs, dual_gaps = lasso_path(X, y, tol=tol, alphas=alphas)
     results[1, tol_ix] = time.time() - t0
     coefs = coefs.T
 
 labels = [r"\sc{Celer}", "scikit-learn"]
-figsize = (7, 4)
+figsize = (7.1, 4.3)
 fig = plot_path_hist(results, labels, tols, figsize, ylim=None)
 plt.show()

diff --git a/_downloads/plot_lasso_cv.py b/_downloads/plot_lasso_cv.py
@@ -10,19 +10,19 @@ using the Celer algorithm.
 import numpy as np
 import matplotlib.pyplot as plt
 
-from sklearn.datasets import fetch_mldata
+from sklearn.datasets import fetch_openml
 
 from celer import LassoCV
 
 print(__doc__)
 
 print("Loading data...")
-dataset = fetch_mldata("leukemia")
+dataset = fetch_openml("leukemia")
 X = np.asfortranarray(dataset.data.astype(float))
-y = dataset.target.astype(float)
+y = 2 * ((dataset.target == "AML") - 0.5)
 n_samples = len(y)
 
-model = LassoCV()
+model = LassoCV(cv=3)
 model.fit(X, y)
 
 print("Estimated regularization parameter alpha: %s" % model.alpha_)
